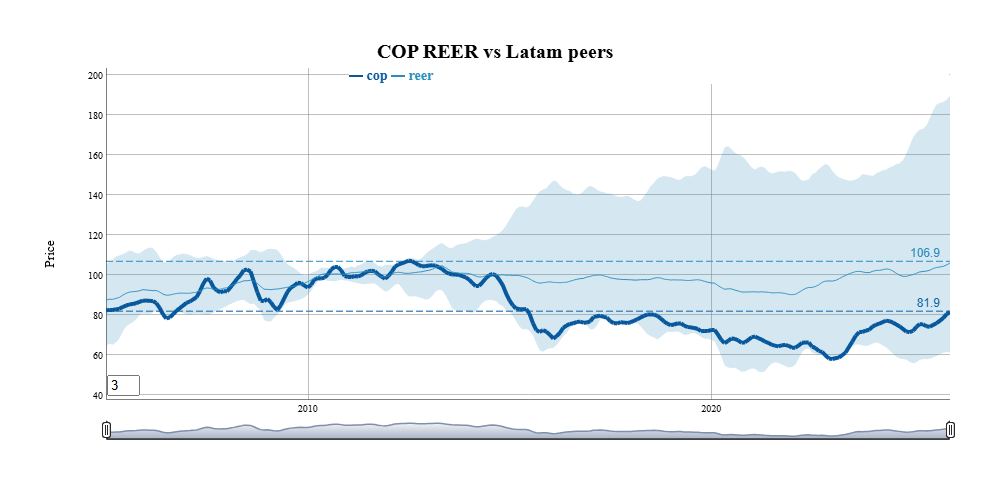
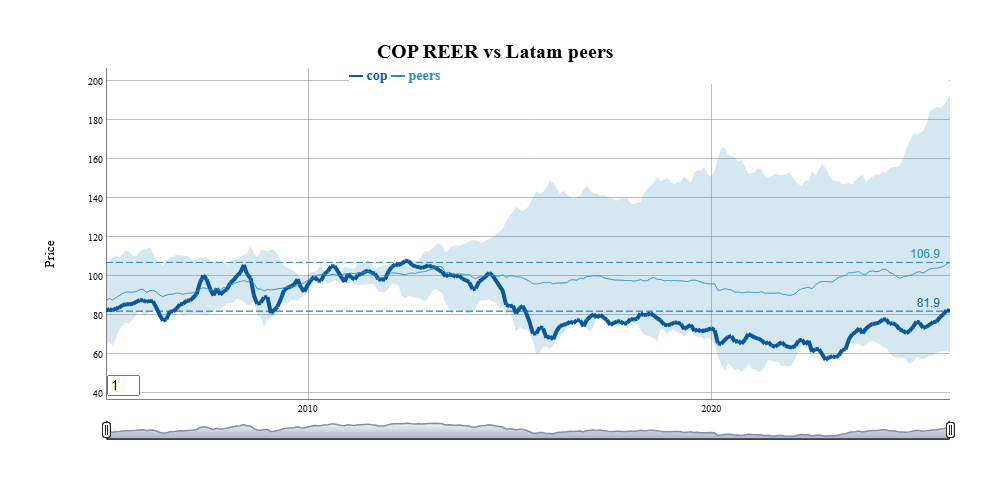
README updated

diff --git a/README.md b/README.md
@@ -48,18 +48,12 @@ changed (again persisantly) using the \[fg_update_colors()\] function.
 ## Simple Examples
 
 ``` r
-require(data.table)
-#> Loading required package: data.table
 require(FinanceGraphs)
 #> Loading required package: FinanceGraphs
 #> Registered S3 method overwritten by 'quantmod':
 #>   method            from
 #>   as.zoo.data.frame zoo
 fgts_dygraph(eqtypx, title="Stock Prices", ylab="Adjusted Close")
-#> Assigning:    indtnew(2031;5) data.table;data.frame from --notrace-->
-#> Assigning:  alltitles() character from --notrace-->
-#> Assigning: series_dets(4;8) data.table;data.frame from --notrace-->
-#> Assigning: dt_colnames() list from --notrace-->
 ```
 
 <img src="man/figures/README-simple_example1-1.png" alt="Simple Graph of a few Equity Prices" width="100%" />
@@ -87,13 +81,11 @@ or a relative date string (e.g. “-6m” for 6 months ago.
     (possibly list) of series names.
   - Hidden from using the `hidecols` argument with a string (possibly
     list) of series names.
+  - Rebased to a given constant at a particular date.
 
 ``` r
-fgts_dygraph(eqtypx, dtstartfrac=0.8,hilightcols="IBM",hilightwidth=4,roller=3)
-#> Assigning:    indtnew(2031;5) data.table;data.frame from --notrace-->
-#> Assigning:  alltitles() character from --notrace-->
-#> Assigning: series_dets(4;8) data.table;data.frame from --notrace-->
-#> Assigning: dt_colnames() list from --notrace-->
+fgts_dygraph(eqtypx, title="W/ Focused range, highlights, rebasing",
+             dtstartfrac=0.6,hilightcols="QQQ",hilightwidth=4,rebase="2024-01-01,100",roller=3)
 ```
 
 <img src="man/figures/README-simple_example2-1.png" alt="Graph of Equity Prices showing highlights and date selection methods" width="100%" />
@@ -110,14 +102,9 @@ fgts_dygraph(eqtypx, dtstartfrac=0.8,hilightcols="IBM",hilightwidth=4,roller=3)
 
 ``` r
 toplot <- reerdta[REGION=="LATAM",.(cop=sum(value*(variable=="COL")),
-               reer=mean(value),reer.lo=min(value),reer.hi=max(value)),by=.(date)]
+               peers=mean(value),peers.lo=min(value),peers.hi=max(value)),by=.(date)]
 fgts_dygraph(toplot,title="COP REER vs Latam peers",ylab="Price",
-             roller=3,hilightcols="cop",
-             hilightwidth=4,annotations="last,linevalue")
-#> Assigning:    indtnew(252;5) data.table;data.frame from --notrace-->
-#> Assigning:  alltitles() character from --notrace-->
-#> Assigning: series_dets(4;8) data.table;data.frame from --notrace-->
-#> Assigning: dt_colnames() list from --notrace-->
+             roller=1,hilightcols="cop",hilightwidth=4,annotations="last,linevalue")
 ```
 
 <img src="man/figures/README-simple_example3-1.png" alt="Hi/Lo series, used to show currency values against local peers" width="100%" />
@@ -144,10 +131,6 @@ be added together with semicolons, as in the following example:
 ``` r
 smalldta <- eqtypx[date>=as.Date("2023-01-01"),.(date,TLT,EEM)]
 fgts_dygraph(smalldta,title="With Events",ylab="Price",events="doi,regm;doi,fedmoves;date,xmas,2025-12-25")
-#> Assigning:    indtnew(772;3) data.table;data.frame from --notrace-->
-#> Assigning:  alltitles() character from --notrace-->
-#> Assigning: series_dets(2;8) data.table;data.frame from --notrace-->
-#> Assigning: dt_colnames() list from --notrace-->
 ```
 
 <img src="man/figures/README-Events1-1.png" alt="Graph of Equity Prices showing Event styles" width="100%" />
@@ -177,12 +160,7 @@ head(events_consumer_sent,2)
 #>    <int>    <char>       <Date>     <Date>  <int>
 #> 1:     3 #9595FFFF   2016-03-02 2016-01-01      3
 #> 2:     2 #CACAFFFF   2016-04-02 2016-03-02      1
-
 fgts_dygraph(smalldta,title="Equity Prices w Sentiment",event_ds=events_consumer_sent)
-#> Assigning:    indtnew(772;3) data.table;data.frame from --notrace-->
-#> Assigning:  alltitles() character from --notrace-->
-#> Assigning: series_dets(2;8) data.table;data.frame from --notrace-->
-#> Assigning: dt_colnames() list from --notrace-->
 ```
 
 <img src="man/figures/README-Events2-1.png" alt="Graph of equity prices showing sentiment ranges" width="100%" />
@@ -190,9 +168,10 @@ Current event helpers are:
 
 | Function | Description |
 |:---|:---|
-| `fg_findTurningPoints()` | Statistically identify turning points in a series. |
-| `fg_ratingsEvents()` | Add colored ranges based on analyst credit ratings. |
-| `fg_cut_to_events()` | “Cut” a univariate series into colored bands, with two different colors for positive and negative values. |
+| `fg_findTurningPoints()` | Statistically identify turning points in a series |
+| `fg_ratingsEvents()` | Add colored ranges based on analyst credit ratings |
+| `fg_cut_to_events()` | “Cut” a univariate series into colored bands, with two different colors for positive and negative values |
+| `fg_signal_to_events()` | Map a long/short signal to events |
 | `fg_tq_divs()` | Add dividend events from TidyQuant dividend data |
 | `fg_av_earnings()` | Add earnings events from AlphaVantage earnings data |
 
@@ -213,10 +192,6 @@ head(example_fcst_set,2)
 #> 1: 2026-01-31 622.6611 615.9843 629.3379 306.9482 301.3265 312.5699
 #> 2: 2026-02-01 622.9118 613.7795 632.0441 307.1080 299.3237 314.8924
 fgts_dygraph(smalldta,title="With Forecasts", dtstartfrac=0.7,forecast_ds=example_fcst_set)
-#> Assigning:    indtnew(808;9) data.table;data.frame from --notrace-->
-#> Assigning:  alltitles() character from --notrace-->
-#> Assigning: series_dets(8;8) data.table;data.frame from --notrace-->
-#> Assigning: dt_colnames() list from --notrace-->
 ```
 
 <img src="man/figures/README-Forecasts1-1.png" alt="Adding forecasts to original data" width="100%" />
@@ -233,21 +208,30 @@ outputs into the appropriate `foreast_ds` forms
 ## Changing colors and adding dates of interest
 
 Default colors for series and annotations can be changed using
-\[fg_update_colors()\]. Any changes made to colors will persist across
-loads of the package. As an example, to make a graduated set of colors
-for the first 5 series.
+\[fg_update_colors()\] or \[fg_update_line_colors()\].  
+Any changes made to colors will persist across loads of the package
+(unless `persist=FALSE` is specified). As an example, to make a
+graduated set of colors for the first 3 series.
 
 ``` r
-fg_get_colors("lines",n_max=3) -> oldcolors
-fg_update_colors( oldcolors[,let(color=  rev(RColorBrewer::brewer.pal(8,"GnBu"))[1:3])][] )
-#> Saved Colors of interest file to C:\Users\DFH\AppData\Local/R/cache/R/FinanceGraphs/fg_colors.RD
-fg_get_colors("lines",n_max=3)
+fg_get_colors("lines",n_max=4)
 #> Key: <category, variable>
 #>    category variable   color  const
 #>      <char>   <char>  <char> <lgcl>
 #> 1:    lines      D01 #08589E     NA
 #> 2:    lines      D02 #2B8CBE     NA
 #> 3:    lines      D03 #4EB3D3     NA
+#> 4:    lines      D04   green     NA
+fg_update_line_colors( rev(RColorBrewer::brewer.pal(8,"GnBu"))[1:3] )
+#> Saved Colors of interest file to C:\Users\DFH\AppData\Local/R/cache/R/FinanceGraphs/fg_colors.RD
+fg_get_colors("lines",n_max=4)
+#> Key: <category, variable>
+#>    category variable   color  const
+#>      <char>   <char>  <char> <lgcl>
+#> 1:    lines      D01 #08589E     NA
+#> 2:    lines      D02 #2B8CBE     NA
+#> 3:    lines      D03 #4EB3D3     NA
+#> 4:    lines      D04   green     NA
 ```
 
 New dates of interest used for the `events` parameter can also be added.
@@ -256,18 +240,12 @@ development of this package), use \[fg_update_dates_of_interest()\].
 Resetting the lists (and colors) can also be done.
 
 ``` r
-newdoi <-data.table(category="fedmoves",eventid="F:-50",DT_ENTRY=as.Date("6/16/2026",format="%m/%d/%Y"))
+newdoi <-data.frame(category="fedmoves",eventid="F:-50",DT_ENTRY=as.Date("6/16/2026",format="%m/%d/%Y"))
 fg_update_dates_of_interest(newdoi)
 #> Saved dates of interest file to C:\Users\DFH\AppData\Local/R/cache/R/FinanceGraphs/fg_doi.RD
-tail(fg_get_dates_of_interest("fedmoves"),2)
-#> Key: <category, DT_ENTRY>
-#>    category eventid eventid2   DT_ENTRY END_DT_ENTRY  color strokePattern
-#>      <char>  <char>   <char>     <Date>       <Date> <char>        <char>
-#> 1: fedmoves   F:-25  rt:3.75 2025-12-10   2025-12-10   <NA>          <NA>
-#> 2: fedmoves   F:-50     <NA> 2026-06-16   2026-06-16   <NA>          <NA>
-#>       loc
-#>    <char>
-#> 1:   <NA>
-#> 2:   <NA>
+tail(fg_get_dates_of_interest("fedmoves"),2)  |> data.frame()
+#>   category eventid eventid2   DT_ENTRY END_DT_ENTRY color strokePattern  loc
+#> 1 fedmoves   F:-25  rt:3.75 2025-12-10   2025-12-10  <NA>          <NA> <NA>
+#> 2 fedmoves   F:-50     <NA> 2026-06-16   2026-06-16  <NA>          <NA> <NA>
 fg_reset_to_default_state()
 ```
